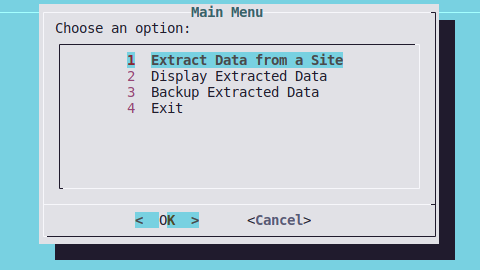
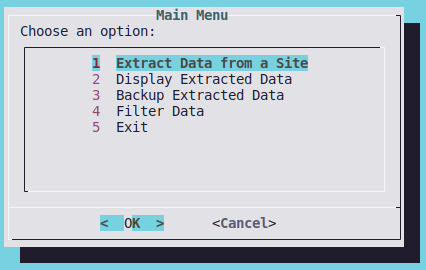
Filtering Data

Changed region(s): [[0.0, 0.0, 1.0, 0.9778]]

diff --git a/README.md b/README.md
@@ -1,10 +1,10 @@
 # Data Extraction Script
 
-![homepage](./images/homepage.png)
+![mainmenu](./images/mainmenu.png)
 
 ## Overview
 
-This script automates the process of extracting data from a website using the `lynx` browser and provides an interactive interface using `dialog`. It installs and configures `lynx`, prompts the user for a URL, extracts data from the specified website, and displays the extracted data. The script also includes features such as URL verification, progress bar during data extraction, and backup creation.
+This script automates the process of extracting data from a website using the `lynx` browser and provides an interactive interface using `dialog`. It installs and configures `lynx`, prompts the user for a URL, extracts data from the specified website, and displays the extracted data. The script also includes features such as URL verification, progress bar during data extraction, filtering of the extracted data, and backup creation.
 
 ## What is Lynx?
 
@@ -16,6 +16,7 @@ Lynx is a highly configurable text-based web browser for use on cursor-addressab
 
 - `SITE_URL`: Default URL of the website to extract data from.
 - `EXTRACTED_DATA`: Filename to save the extracted data.
+- `epochs`: Number of iterations for the progress bar during data extraction.
 
 ### Functions
 
@@ -23,23 +24,29 @@ Lynx is a highly configurable text-based web browser for use on cursor-addressab
 
 Checks if `lynx` is installed on the system. If not, it installs `lynx` using the package manager.
 
-#### `extract_data()`
-
-Uses `lynx` to extract data from the specified URL and saves it to a file.
-
-![extractingdata](./images/extracting.png)
-
 #### `initial_screen()`
 
 Displays a welcome message using `dialog`.
 
 ![homepage](./images/homepage.png)
 
+#### `main_menu()`
+
+Displays the main menu, allowing the user to choose actions such as extracting data, displaying extracted data, creating a backup, or filtering data.
+
+![mainmenu](./images/mainmenu.png)
+
 #### `get_url()`
 
 Prompts the user to enter the URL of the website to extract data from using `dialog`.
 
 ![geturl.png](./images/geturl.png)
+
+#### `extract_data()`
+
+Uses `lynx` to extract data from the specified URL and saves it to a file, displaying a progress bar during the extraction process.
+
+![extractingdata](./images/extracting.png)
 
 #### `display_data()`
 
@@ -53,11 +60,11 @@ Creates a backup of the extracted data with a timestamp and the name of the webs
 
 ![backup](./images/backupimage.png)
 
-#### `main_menu()`
+#### `filter_data()`
 
-Displays the main menu, allowing the user to choose actions such as extracting data, displaying extracted data, creating a backup, or exiting the script.
+Filters and transforms the extracted data, saving the filtered data to a new file. It extracts specific patterns from the data, such as text preceded by numbers within square brackets. Additionally, it extracts and appends any URLs found in the extracted data to the filtered data file.
 
-![mainmenu](./images/mainmenu.png)
+![filterdata](./images/filterdata.png)
 
 ### Script Execution
 
@@ -68,4 +75,4 @@ Displays the main menu, allowing the user to choose actions such as extracting d
 
 ## Conclusion
 
-This script simplifies the process of extracting data from a website using `lynx` and provides a user-friendly interface with `dialog`. It ensures that necessary tools are installed, allows users to specify the target website, and displays the extracted data in an organized manner. This script can be further expanded and customized to meet specific data extraction needs.
+This script simplifies the process of extracting data from a website using `lynx` and provides a user-friendly interface with `dialog`. It ensures that necessary tools are installed, allows users to specify the target website, and displays the extracted data in an organized manner. With the new filtering feature, users can extract specific patterns from the data and also extract any URLs referenced in the data. This script can be further expanded and customized to meet specific data extraction needs.
